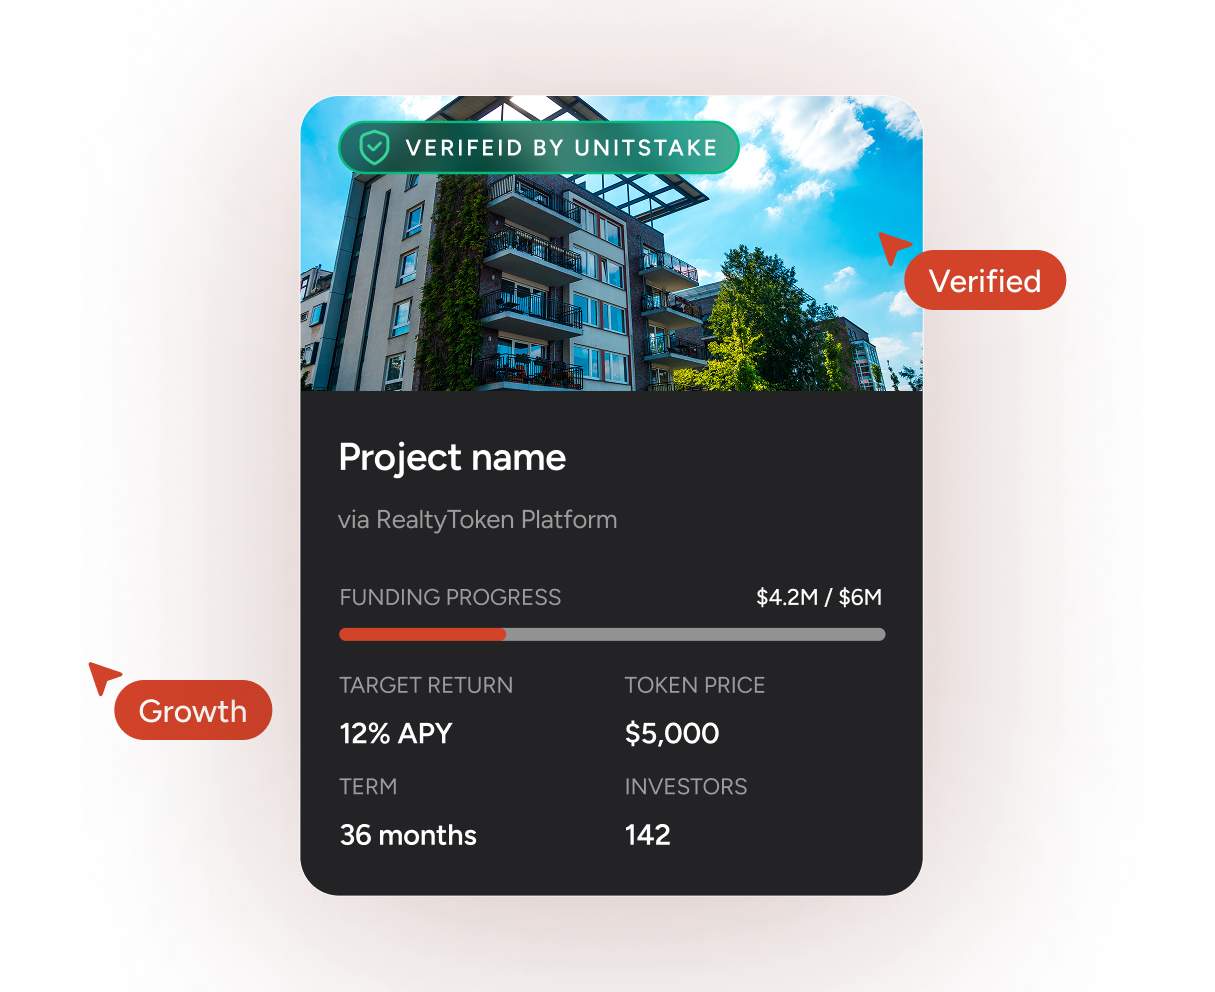
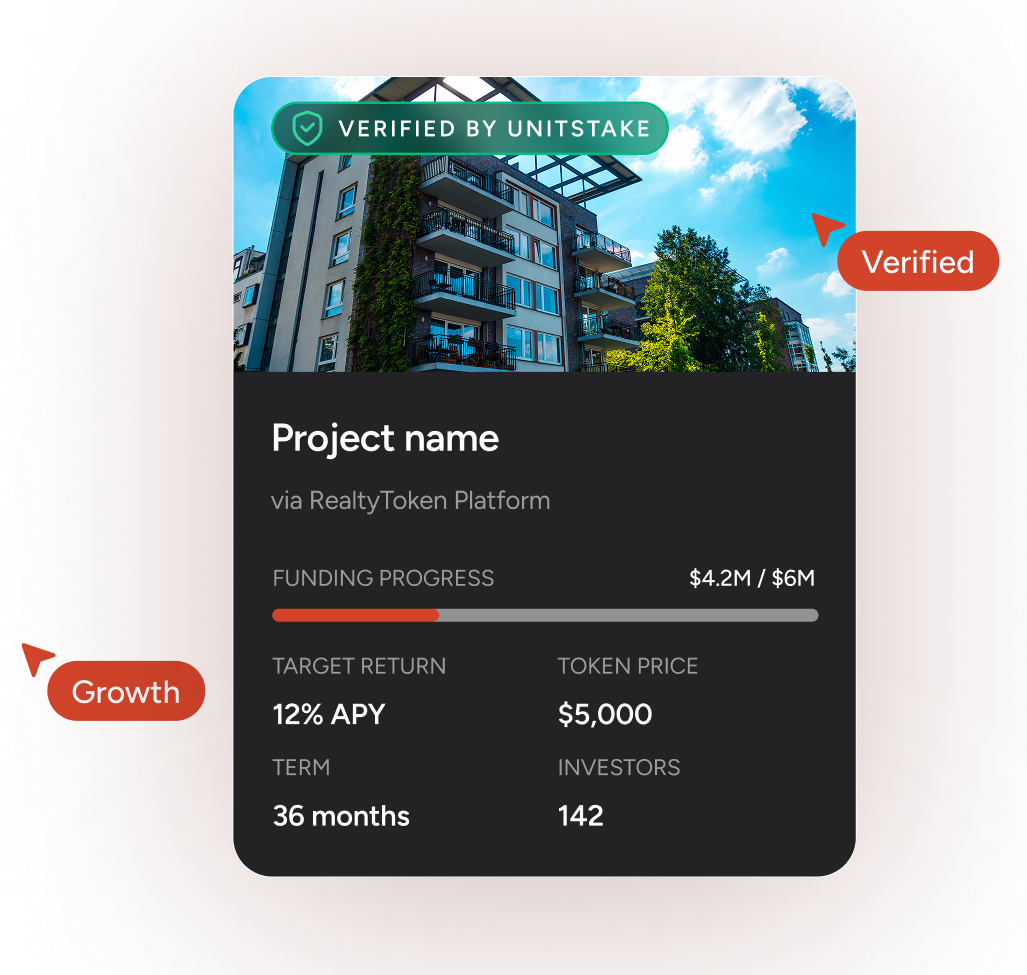
texts have been changed

Changed region(s): [[0.0, 0.0615, 0.9971, 0.9231], [0.4985, 0.6769, 0.6855, 0.8615]]

diff --git a/src/components/Main/Pages/VerifiedPage/VerifiedPage.jsx b/src/components/Main/Pages/VerifiedPage/VerifiedPage.jsx
@@ -18,26 +18,25 @@ const firstDisclaimerTxt = (
 const secondDisclaimerTxt = (
     <>
         <p>
-            Verified by Unit Stake is a data verification service provided by
-            Unit Stake as an informational service. Unit Stake is not a broker,
-            investment adviser, financial intermediary, or regulated entity
+            Verified by UnitStake is a data verification service provided by
+            UnitStake as an informational service. UnitStake is an informational
+            aggregator. UnitStake is not a broker, investment adviser, financial
+            intermediary, or regulated entity.
         </p>
         <p>
-            Nothing on this platform, including the Verified by Unit Stake
-            status, constitutes:
+            Nothing on this platform, including the Verified by UnitStake
+            designation, constitutes investment advice, a financial promotion,
+            an offer or invitation to buy or sell any asset, or a recommendation
+            of any kind.
         </p>
-        <ul>
-            <li>investment advice</li>
-            <li>a financial promotion</li>
-            <li>an offer or solicitation to buy or sell any asset</li>
-            <li>a recommendation of any kind</li>
-        </ul>
         <p>
-            Verified status reflects the outcome of a review of disclosed
-            information and publicly available data as of the verification date.
-            All materials are provided for informational purposes only and
-            should not be relied upon as a basis for investment or financial
-            decisions.
+            The Verified by UnitStake designation reflects the results of the
+            verification of data disclosed by the project and publicly available
+            information as of the date the verification was conducted.
+        </p>
+        <p>
+            The materials presented are for informational purposes only and do
+            not constitute a recommendation to take any action.
         </p>
     </>
 );

diff --git a/src/components/Main/Pages/Academy/Academy.jsx b/src/components/Main/Pages/Academy/Academy.jsx
@@ -45,7 +45,7 @@ const Academy = () => {
 
         const targets = contentBlocks
             .map((block, index) =>
-                block.type === 'h3' || block.type === 'strong'
+                block.type === 'h3' || block.type === 'h4'
                     ? `block-${index}`
                     : null,
             )
@@ -130,13 +130,13 @@ const Academy = () => {
                             </div>
                         </div>
                         <h2>
-                            Understand how tokenized assets really work — before
+                            Understand how tokenized assets really work - before
                             you trust them
                         </h2>
                         <p className={classes.secondaryTxt}>
                             This Academy explains how real-world asset
-                            tokenization works — from legal architecture to
-                            capital flows — so you can evaluate projects based
+                            tokenization works - from legal architecture to
+                            capital flows - so you can evaluate projects based
                             on structure, not assumptions.
                         </p>
                     </div>
@@ -166,7 +166,7 @@ const Academy = () => {
                                                     {block.value}
                                                 </HashLink>
                                             );
-                                        case 'strong': {
+                                        case 'h4': {
                                             let parentH3Index = -1;
                                             for (let i = index; i >= 0; i--) {
                                                 if (
@@ -233,6 +233,12 @@ const Academy = () => {
                                         return (
                                             <h4
                                                 key={index}
+                                                id={blockId}
+                                                ref={(el) =>
+                                                    (headingRefs.current[
+                                                        blockId
+                                                    ] = el)
+                                                }
                                                 className={
                                                     classes.contentSubtitle
                                                 }
@@ -244,12 +250,6 @@ const Academy = () => {
                                         return (
                                             <b
                                                 key={index}
-                                                id={blockId}
-                                                ref={(el) =>
-                                                    (headingRefs.current[
-                                                        blockId
-                                                    ] = el)
-                                                }
                                                 className={
                                                     classes.contentBoldTxt
                                                 }

diff --git a/src/components/Main/Pages/AssetsPage/AssetsPageChoice/AssetsPageChoice.jsx b/src/components/Main/Pages/AssetsPage/AssetsPageChoice/AssetsPageChoice.jsx
@@ -5,43 +5,35 @@ import choiceIcon1 from '../../../../../assets/images/assetsPageImages/choice1.s
 import choiceIcon2 from '../../../../../assets/images/assetsPageImages/choice2.svg';
 import choiceIcon3 from '../../../../../assets/images/assetsPageImages/choice3.svg';
 import choiceIcon4 from '../../../../../assets/images/assetsPageImages/choice4.svg';
-import choiceIcon5 from '../../../../../assets/images/assetsPageImages/choice5.svg';
 
 const choiceBoxes = [
     {
         id: '1',
         icon: choiceIcon1,
-        title: 'Structure and present your asset',
+        title: 'Increase transparency through structured data presentation',
         subtitle: 'POSITIONING',
         text: 'Launched the tokenized fund BUIDL, signaling institutional confidence in blockchain-based fund infrastructure.',
     },
     {
         id: '2',
         icon: choiceIcon2,
-        title: 'Prepare for market exposure',
+        title: 'Simplify access to key information for interested market participants',
         subtitle: 'MARKET READINESS',
         text: 'We help package your asset with the right materials and narrative',
     },
     {
         id: '3',
         icon: choiceIcon3,
-        title: 'Make your project investor-ready',
+        title: 'Make opportunities easier to understand and evaluate',
         subtitle: 'CLARITY',
         text: 'Turn complex structures into clear, understandable opportunities',
     },
     {
         id: '4',
         icon: choiceIcon4,
-        title: 'Navigate market opportunities',
+        title: 'Increase project visibility among interested market participants',
         subtitle: 'DISCOVERY',
         text: 'Understand where your asset fits within the evolving tokenized market',
-    },
-    {
-        id: '5',
-        icon: choiceIcon5,
-        title: 'Structured data & visibility layer',
-        subtitle: 'INTELLIGENCE',
-        text: 'Access a standardized framework for presenting and comparing projects',
     },
 ];
 
@@ -81,8 +73,6 @@ const AssetsPageChoice = () => {
                                     </div>
                                     <div className={classes.choiceInfoBoxTxt}>
                                         <h4>{item.title}</h4>
-                                        <h5>{item.subtitle}</h5>
-                                        <p>{item.text}</p>
                                     </div>
                                 </li>
                             ))}

diff --git a/src/components/Main/Pages/AssetsPage/AssetsPageCards/AssetsPageCards.jsx b/src/components/Main/Pages/AssetsPage/AssetsPageCards/AssetsPageCards.jsx
@@ -12,11 +12,12 @@ const AssetsPageCards = () => {
                 <div className={classes.cardsContainer}>
                     <div className={classes.card}>
                         <div className={classes.cardInfo}>
-                            <h2>Get Your Project Listed on UnitStake</h2>
+                            <h2>
+                                Get Your Project Listed on UnitStake Aggregator
+                            </h2>
                             <p>
-                                Showcase your asset to a global audience of
-                                investors through a structured and trusted data
-                                environment.
+                                Showcase your asset to a global audience through
+                                a structured and trusted data environment.
                             </p>
                             <h6>
                                 Increase visibility, build credibility, and

diff --git a/src/components/Main/Pages/VerifiedPage/VerifiedPageWeDo/VerifiedPageWeDo.jsx b/src/components/Main/Pages/VerifiedPage/VerifiedPageWeDo/VerifiedPageWeDo.jsx
@@ -7,9 +7,9 @@ const VerifiedPageWeDo = () => {
         <section className={classes.weDo}>
             <div className="wrapper">
                 <div className={classes.weDoHeader}>
-                    <h2>What Is Verified by Unit Stake</h2>
+                    <h2>What Is Verified by UnitStake</h2>
                     <p>
-                        Verified by Unit Stake is a structured verification
+                        Verified by UnitStake is a structured verification
                         framework designed to improve transparency in tokenized
                         asset markets. The verification process reviews
                         information disclosed by a project across several key
@@ -43,7 +43,7 @@ const VerifiedPageWeDo = () => {
                                     strokeLinejoin="round"
                                 />
                             </svg>
-                            Unit Stake does not
+                            UnitStake does not
                         </h4>
                         <ul>
                             <li>provide investment advice</li>
@@ -72,7 +72,7 @@ const VerifiedPageWeDo = () => {
                                     strokeLinejoin="round"
                                 />
                             </svg>
-                            Unit Stake does
+                            UnitStake does
                         </h4>
                         <ul>
                             <li>

diff --git a/src/components/Main/Pages/AboutUsPage/AboutUsPageGoal/AboutUsPageGoal.jsx b/src/components/Main/Pages/AboutUsPage/AboutUsPageGoal/AboutUsPageGoal.jsx
@@ -5,9 +5,9 @@ const AboutUsPageGoal = () => {
         <section className={classes.goal}>
             <div className="wrapper">
                 <div className={classes.goalHeader}>
-                    <h2>Our goal is simple: </h2>
+                    <h2>Our goal is simple:</h2>
                     <p>
-                        to collect, structure, and explain information about
+                        To collect, structure, and explain information about
                         tokenised projects so that users can clearly understand
                         what stands behind each asset. This includes the
                         structure being used, who the issuer is, where the
@@ -57,7 +57,7 @@ const AboutUsPageGoal = () => {
                             <h3>Our approach</h3>
                             <p>
                                 We use a structured verification process called
-                                Unit Stake Verification, which is based only on
+                                Verified by UnitStake, which is based only on
                                 publicly available information. We don’t make
                                 recommendations. We make information easier to
                                 understand.

diff --git a/src/components/Main/Pages/MainPage/MainPageNews/MainPageNews.jsx b/src/components/Main/Pages/MainPage/MainPageNews/MainPageNews.jsx
@@ -35,7 +35,11 @@ const MainPageNews = () => {
 
     const dateFormatter = (dateString) => {
         const date = new Date(dateString);
-        return date.toLocaleDateString();
+        return date.toLocaleDateString('en-GB', {
+            day: 'numeric',
+            month: 'long',
+            year: 'numeric',
+        });
     };
 
     return (

diff --git a/src/components/Main/Pages/VerifiedPage/VerifiedPageStatus/VerifiedPageStatus.jsx b/src/components/Main/Pages/VerifiedPage/VerifiedPageStatus/VerifiedPageStatus.jsx
@@ -10,7 +10,7 @@ const VerifiedPageStatus = () => {
                     <div className={classes.statusBox}>
                         <h3>What Verified Status Provides to Platform Users</h3>
                         <p>
-                            Verified by Unit Stake helps users better understand
+                            Verified by UnitStake helps users better understand
                             what information has been disclosed and reviewed,
                             including:
                         </p>
@@ -60,10 +60,6 @@ const VerifiedPageStatus = () => {
                                 publicly available sources.
                             </li>
                         </ul>
-                        <h4>
-                            Verification supports more informed independent
-                            analysis by improving information transparency.
-                        </h4>
                     </div>
                     <div className={classes.statusBox}>
                         <h3>What Verified Status Provides to Asset Owners</h3>

diff --git a/src/components/Main/Pages/AboutUsPage/AboutUsPageFirstText/AboutUsPageFirstText.jsx b/src/components/Main/Pages/AboutUsPage/AboutUsPageFirstText/AboutUsPageFirstText.jsx
@@ -7,9 +7,9 @@ const AboutUsPageFirstText = () => {
                 <div className={classes.firsTextContainer}>
                     <div className={classes.text}>
                         We operate within one of the fastest-growing and least
-                        structured segments of modern finance — tokenised
+                        structured segments of modern finance - tokenised
                         real-world assets. This market combines technology, law,
-                        and capital — but lacks unified standards of
+                        and capital - but lacks unified standards of
                         understanding.
                     </div>
                     <div className={classes.text}>

diff --git a/src/components/Main/Pages/AboutUsPage/AboutUsPagePlatform/AboutUsPagePlatform.jsx b/src/components/Main/Pages/AboutUsPage/AboutUsPagePlatform/AboutUsPagePlatform.jsx
@@ -8,8 +8,8 @@ const AboutUsPagePlatform = () => {
             <div className="wrapper">
                 <div className={classes.platformContainer}>
                     <h2>
-                        This platform was not built as an idea — it was built as
-                        a necessity.
+                        This aggregator wasn't created as an idea - it was
+                        created to solve a real market need.
                     </h2>
                     <p>
                         We built what we could not find in the market ourselves.

diff --git a/src/components/Main/Pages/AboutUsPage/AboutUsPageVerification/AboutUsPageVerification.jsx b/src/components/Main/Pages/AboutUsPage/AboutUsPageVerification/AboutUsPageVerification.jsx
@@ -8,7 +8,7 @@ const AboutUsPageVerification = () => {
             <div className="wrapper">
                 <div className={classes.verificationContainer}>
                     <div className={classes.verificationText}>
-                        <h2>Verification by UnitStake</h2>
+                        <h2>Verified by UnitStake</h2>
                         <p>
                             It’s a way to organise and present facts about a
                             project so users can better understand its
@@ -16,7 +16,7 @@ const AboutUsPageVerification = () => {
                             data.
                         </p>
                         <h4>
-                            Verification by UnitStake is not a rating and not an
+                            Verified by UnitStake is not a rating and not an
                             endorsement.
                         </h4>
                     </div>

diff --git a/src/components/Main/Pages/Academy/Academy.module.css b/src/components/Main/Pages/Academy/Academy.module.css
@@ -16,7 +16,7 @@
 
 .heroSectionContainer {
     width: 100%;
-    max-width: 820px;
+    max-width: 800px;
     margin: auto;
     display: flex;
     align-items: center;
@@ -177,6 +177,7 @@
 }
 
 .contentSubtitle {
+    scroll-margin-top: 120px;
     padding-bottom: 16px;
     position: relative;
     font-weight: 600;
@@ -202,7 +203,6 @@
     background-size: 16px 1px;
     background-repeat: repeat-x;
     background-position: top;
-    scroll-margin-top: 120px;
     font-weight: 600;
     font-size: 24px;
     line-height: 140%;